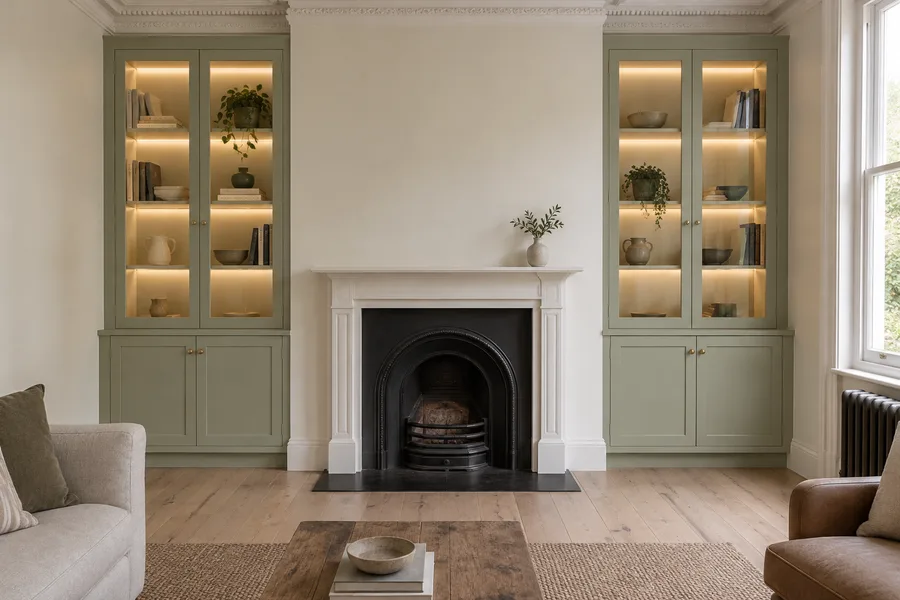
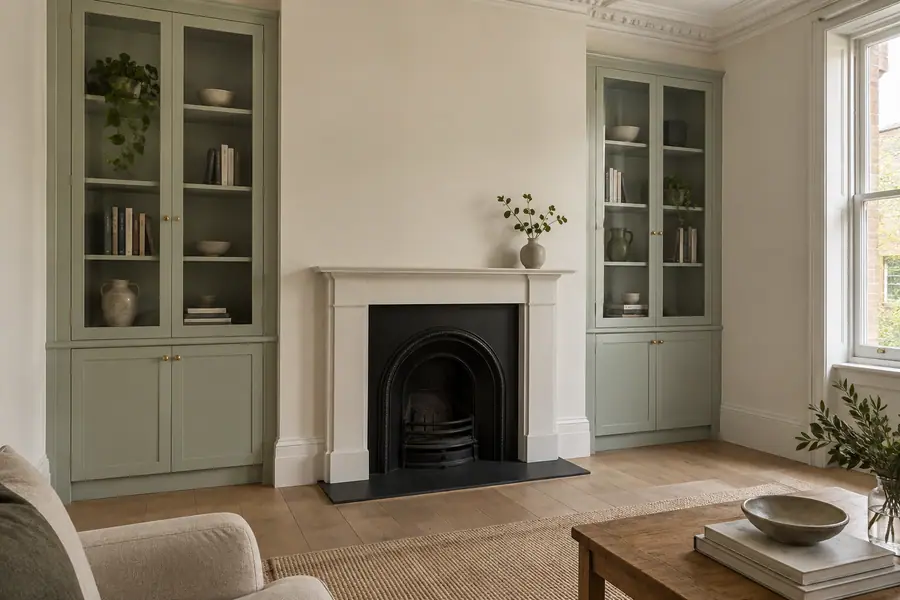
Islington: the AI alcove picture made again without LED lighting (Denis, 19 Nov)
Denis on the review link: "remove the leds here". New render, Figma node 41:8 (gpt-image-2.5-sunburst), no lights anywhere, camera slightly off-centre; picked over 41:9 by an independent check against the S&S render protocol (41:9 had a stepped top below the cornice). One faint mark on a glazed door rail retouched. Alt text no longer says lit shelves. Variants written with the variant script's settings; manifest unchanged (same name and widths). astro build 36 pages; verify passed; npm test 88 pass.

diff --git a/src/data/areas.ts b/src/data/areas.ts
@@ -216,12 +216,15 @@ export const AREAS: Area[] = [
         alt: "Matt charcoal L-shaped handleless kitchen with an island, two white stools, a tall fridge housing, a black extractor and a white metro tile splashback.",
       },
       {
+        /* 19 Nov 2026, Denis on the review link: "remove the leds here". Made again without lighting
+           (Figma node 41:8, picked over 41:9 by an independent check against the render protocol;
+           one faint mark on a door rail retouched). Original PNG in S&S ops deliverables/ai-renders-2026-11-14/. */
         file: "/images/journal/islington-ai-glazed-alcove-units.webp",
         type: "Glazed alcove cupboards",
         ai: true,
         width: 1536,
         height: 1024,
-        alt: "Two fitted alcove units painted soft sage green either side of a white fireplace with a black cast-iron insert. Each has a two-door panelled base cupboard with small brass knobs and a glazed upper cupboard with lit shelves holding books and ceramics, running up to the room's cornice. A sash window is to the right.",
+        alt: "Two fitted alcove units painted soft sage green either side of a white fireplace with a black cast-iron insert. Each has a two-door panelled base cupboard and a two-door glazed upper cupboard with shelves holding books and ceramics, all with small brass knobs, running up to the room's cornice. A tall sash window is to the right.",
       },
     ],
     summary: "Late Georgian squares and terraces, Victorian villas and flats in converted houses.",
